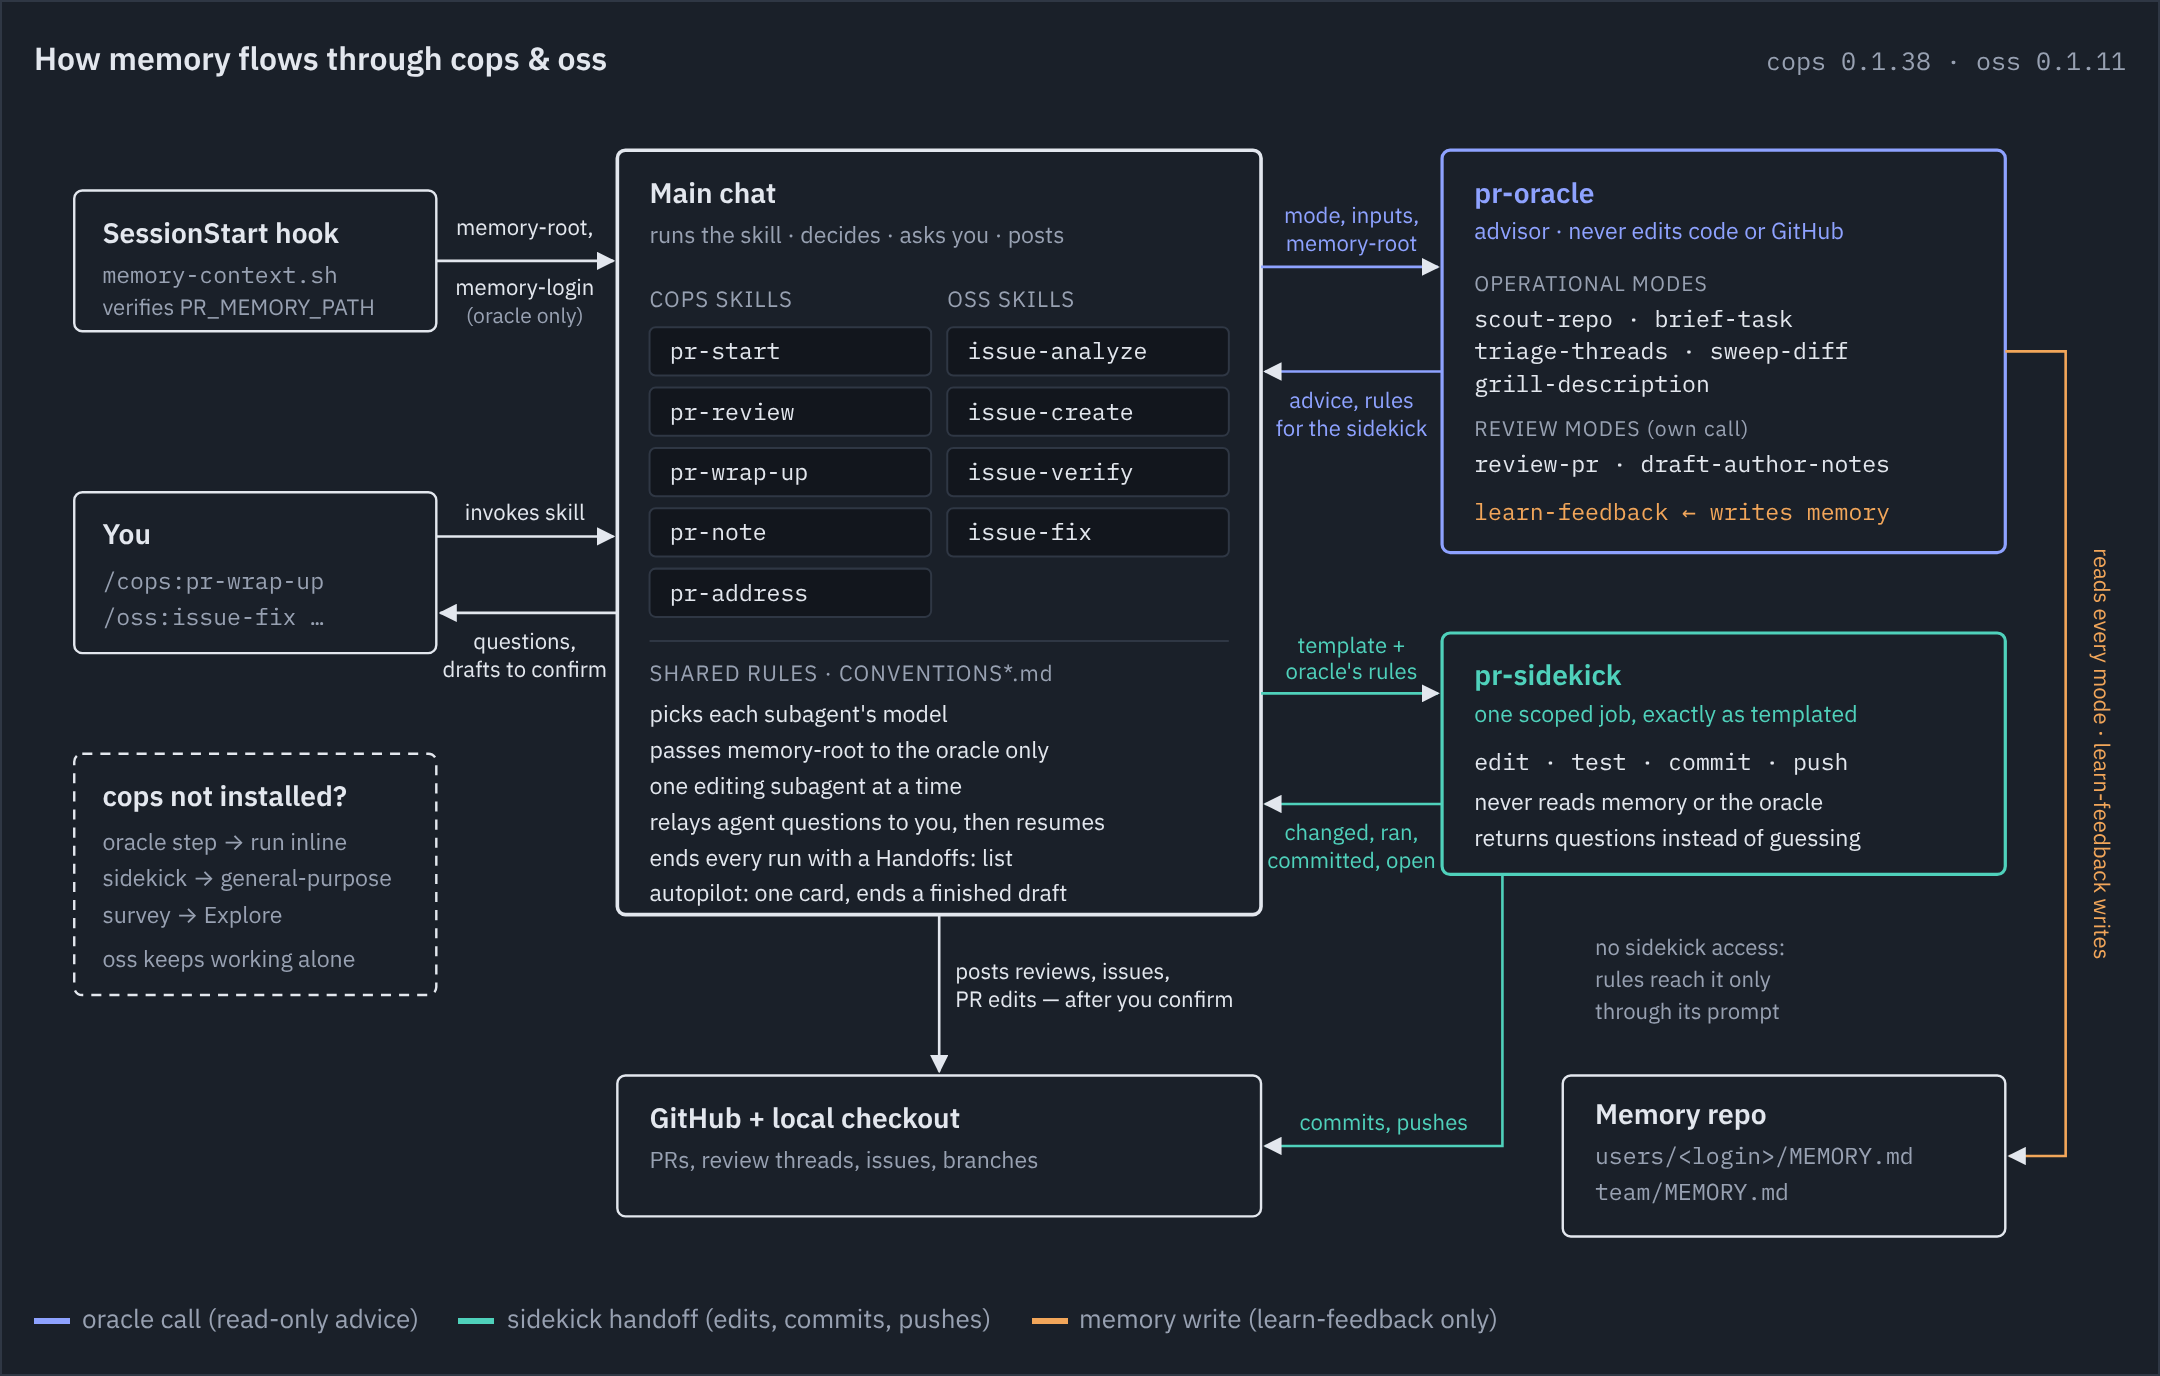
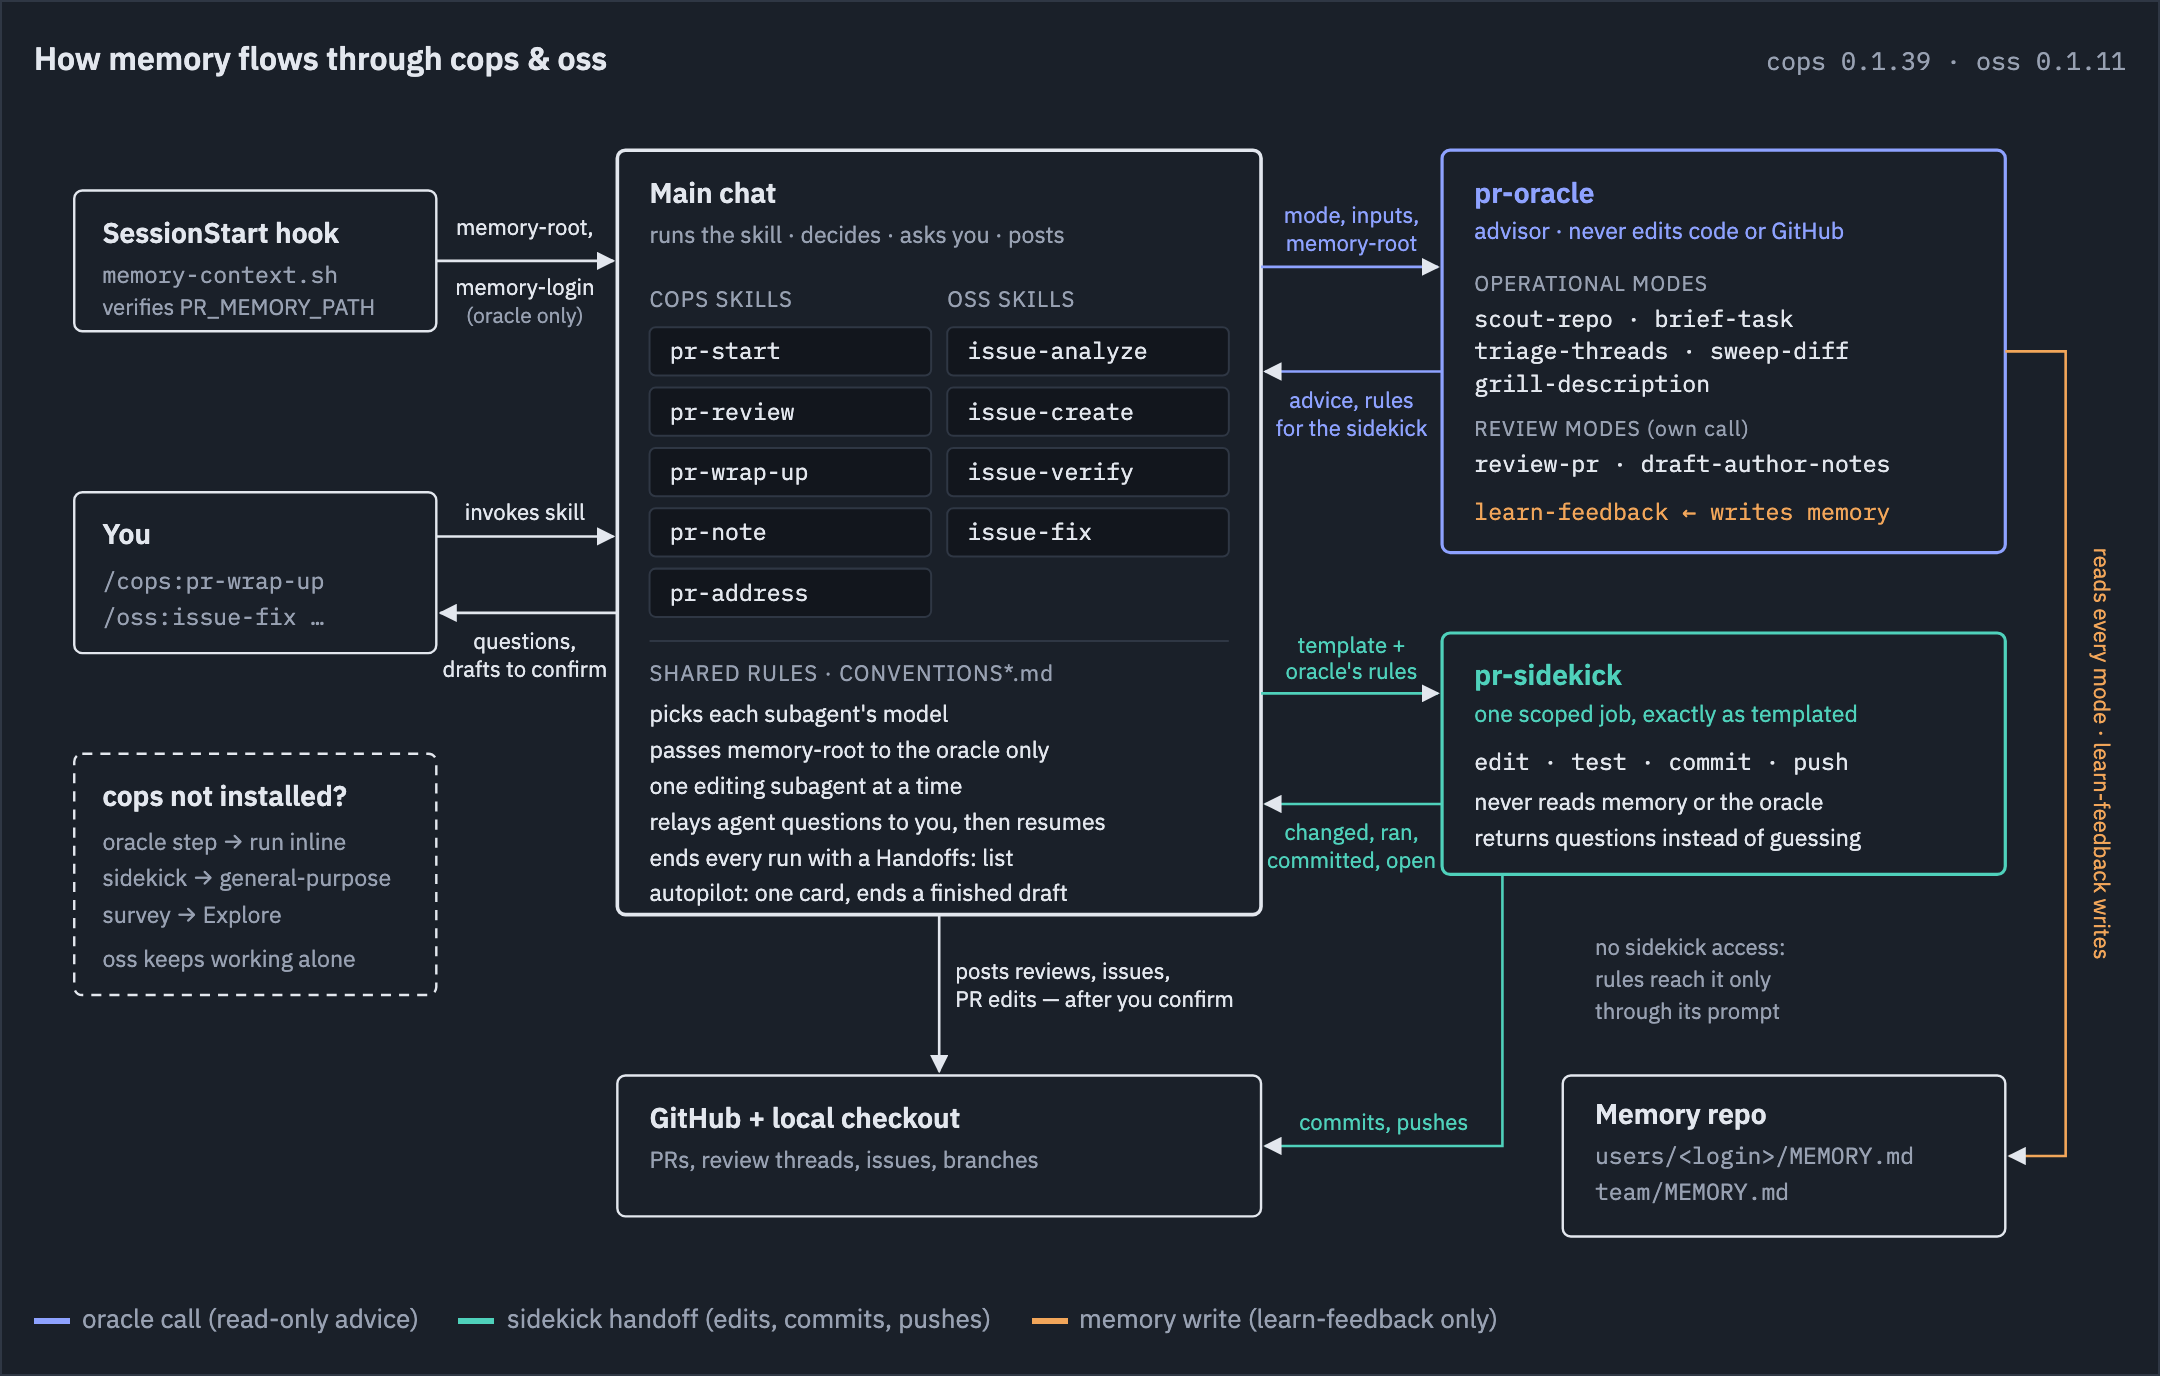
[cops] feat: let review-pr name the rule behind each comment privately (#121) (#124)
* [cops] feat: let review-pr name the rule behind each comment privately

review-pr comments carry a private `rule:` field that is never posted, so the rule usage stats count which remembered rules drive review comments.

Skill: cops:pr-start
Approved-by: eddeee888

* [cops] fix: ignore rule lines inside a comment body when counting review-pr rules

Skill: cops:pr-address
Approved-by: eddeee888

* [cops] fix: ask review-pr for a single-quoted rule value

Skill: cops:pr-address
Approved-by: eddeee888

* [cops] chore: bump cops to 0.1.39

---------

diff --git a/cops/hooks/cops.tsx b/cops/hooks/cops.tsx
@@ -10,7 +10,7 @@ import { checkLoaded, checkTool, EXPECTED_HANDOFFS, tickedBy } from './orchestra
 import { describeActivity, describeAgent, describeCall, describeNext, describeOutcome, describeSkill, groupActivity, isSameSkill, snippet, SPINNER_MS, summarize, THREADS_QUERY, toThreads } from './pr-panel.ts'
 import type { ThreadsResponse } from './pr-panel.ts'
 import { findRule } from './rule-band.ts'
-import { countUses, describeRules, describeUse, hashRule, matchEntries, parseEntries, parseFlagged, parseReply, toRuleUsage } from './rule-usage.ts'
+import { countUses, describeRules, describeUse, hashRule, matchEntries, parseEntries, parseFlagged, parseReply, parseReviewRules, toRuleUsage } from './rule-usage.ts'
 import { countLines, describeCapacityWarning, describeMemory } from './status-line.ts'
 import { addUsage, describeUsage, keyCall, toUsage } from './usage-stats.ts'
 
@@ -31,7 +31,7 @@ const INBOX_LIMIT = 50
 // The `$.store` key of the `kind: text` lines dropped from the inbox, kept so they aren't collected again.
 const DROPPED = 'dropped'
 const DROPPED_LIMIT = 200
-// The `$.store` key of how often each remembered rule matched a brief-task or sweep-diff reply, kept across sessions.
+// The `$.store` key of how often each remembered rule matched a brief-task, sweep-diff or review-pr reply, kept across sessions.
 const RULE_USAGE = 'ruleUsage'
 // The `$.store` key of what finished cops agent calls cost per mode or job, kept across sessions.
 const USAGE = 'usage'
@@ -581,17 +581,18 @@ export const register: Register = (on, options) => {
       if (agent === 'cops:pr-oracle' && call.modes?.includes('learn-feedback')) {
         void refreshStatus($, memory).catch(error => reportFailure($, { step: 'status', what: 'refresh the status line', error }))
       }
-      // Counts the remembered rules a plain brief-task or a sweep-diff reply cites, while memory is on.
+      // Counts the remembered rules a plain brief-task, a sweep-diff or a review-pr reply cites, while memory is on.
+      // A review-pr reply cites them only in its comments' private `rule:` fields.
       // A `for: pr-sidekick` brief lists every rule that could apply, so it doesn't show which rules fire.
       try {
         const isSidekickBrief = /^for:\s*pr-sidekick\b/mi.test(e.prompt)
-        if (agent === 'cops:pr-oracle' && call.modes?.some(one => one === 'sweep-diff' || (one === 'brief-task' && !isSidekickBrief))) {
+        if (agent === 'cops:pr-oracle' && call.modes?.some(one => one === 'sweep-diff' || one === 'review-pr' || (one === 'brief-task' && !isSidekickBrief))) {
           const pluginRoot = $.plugin.root
           const context = await runProcess($, ['bash', `${pluginRoot}/hooks/memory-context.sh`, 'claude', memory.path, memory.login])
           if (context?.exitCode === 0 && context.stdout.includes('COPS memory root:')) {
             const { rules } = await readMemory($, { context: context.stdout })
             const entries = rules.map(one => one.rule)
-            const keys = matchEntries({ entries, cited: parseReply({ text: ran.text ?? '' }) }).map(rule => hashRule({ text: rule }))
+            const keys = matchEntries({ entries, cited: call.modes?.includes('review-pr') ? parseReviewRules({ text: ran.text ?? '' }) : parseReply({ text: ran.text ?? '' }) }).map(rule => hashRule({ text: rule }))
             // Only a sweep-diff reply's `— rule:` lines flag a rule; a brief-task citation just counts.
             const flaggedKeys = call.modes?.includes('sweep-diff') ? matchEntries({ entries, cited: parseFlagged({ text: ran.text ?? '' }) }).map(rule => hashRule({ text: rule })) : []
             if (keys.length > 0) {

diff --git a/cops/hooks/rule-usage.test.ts b/cops/hooks/rule-usage.test.ts
@@ -3,7 +3,7 @@ import type { Engine } from 'claude-code/testing'
 import type { On, ProcessRunResult } from 'claude-code'
 import type { RuleUsage } from '../types'
 import { MEMORY_LIMIT } from './status-line.ts'
-import { countUses, describeRules, describeUse, hashRule, matchEntries, normalize, parseEntries, parseFlagged, parseReply, toRuleUsage } from './rule-usage.ts'
+import { countUses, describeRules, describeUse, hashRule, matchEntries, normalize, parseEntries, parseFlagged, parseReply, parseReviewRules, toRuleUsage } from './rule-usage.ts'
 
 const DAY = 86_400_000
 const NOW = 100 * DAY
@@ -152,6 +152,20 @@ describe('rule usage counting', () => {
     expect(used({ stored, rule: 'Prefer early returns' })).toEqual({ count: 2, flagged: 1, firstSeen: DAY, lastSeen: NOW, recent: [DAY, NOW] })
     expect(used({ stored, rule: 'Keep tests beside the code' })?.count).toBe(1)
     expect(Object.keys(toRuleUsage({ stored: stored.ruleUsage }))).toHaveLength(2)
+  })
+
+  test('a review-pr comment\'s private rule counts as cited, not flagged', MEMORY, async ($, on) => {
+    const stored: Record<string, unknown> = {}
+    world({ on, stored, replies: { 'mode: review-pr': 'comments:\n  - path: a.ts\n    rule: [U-014] prefer early returns (stated by user)\n    body: |-\n      **Issue:** nested ifs' } })
+    await oracle({ $, mode: 'review-pr' })
+    expect(used({ stored, rule: 'Prefer early returns' })).toEqual({ count: 1, firstSeen: NOW, lastSeen: NOW, recent: [NOW] })
+  })
+
+  test('a review-pr comment with rule null counts nothing', MEMORY, async ($, on) => {
+    const stored: Record<string, unknown> = {}
+    world({ on, stored, replies: { 'mode: review-pr': 'comments:\n  - path: a.ts\n    rule: null\n    body: |-\n      **Issue:** prefer early returns' } })
+    await oracle({ $, mode: 'review-pr' })
+    expect(stored.ruleUsage).toBeUndefined()
   })
 
   test('counts nothing for unmatched text, no relevant memory, clean, or other modes', MEMORY, async ($, on) => {
@@ -348,6 +362,14 @@ describe('usage', () => {
 
   test('parses only the sweep-diff rule lines as flagged', () => {
     expect(parseFlagged({ text: '- a.ts:3  nested ifs  — rule: [U-014] prefer early returns (stated by user)\n- ask before pushing  (seen 2x)\nclean' })).toEqual(['[U-014] prefer early returns'])
+  })
+
+  test('parses a review-pr reply\'s rule fields, skipping null and empty', () => {
+    expect(parseReviewRules({ text: '  - path: a.ts\n    rule: [U-014] prefer early returns (stated by user)\n    rule: null\n    rule:\n    rule: "use pnpm"\n- a bullet' })).toEqual(['[U-014] prefer early returns', 'use pnpm'])
+  })
+
+  test('ignores rule lines inside a comment body block', () => {
+    expect(parseReviewRules({ text: '  - path: a.yml\n    rule: null\n    body: |-\n      **Suggestion:** x\n      ```suggestion\n      rule: no\n      ```' })).toEqual([])
   })
 
   test('drops stored values that are not usage', () => {

diff --git a/cops/hooks/rule-usage.ts b/cops/hooks/rule-usage.ts
@@ -1,7 +1,7 @@
 import type { RuleUsage } from '../types'
 import { MEMORY_LIMIT } from './status-line.ts'
 
-// How often each remembered rule fires in pr-oracle's brief-task and sweep-diff replies, and which have gone stale.
+// How often each remembered rule fires in pr-oracle's brief-task, sweep-diff and review-pr replies, and which have gone stale.
 
 const DAY_MS = 86_400_000
 // A rule last seen this long ago, or never, is stale.
@@ -108,6 +108,17 @@ export const parseFlagged = ({ text }: { text: string }): string[] =>
     const rule = /^\s*- .*?\s—\s*rule:\s*(.+)$/.exec(line)?.[1]
     const stripped = rule ? stripEvidence({ text: rule }) : ''
     return stripped ? [stripped] : []
+  })
+
+// The rules a review-pr reply names in its comments' private `rule:` fields, without their evidence:
+//   '    rule: [U-014] prefer early returns (stated by user)'   → ['[U-014] prefer early returns']
+//   '  - rule: "prefer early returns"'                          → ['prefer early returns']
+//   '    rule: null', '    rule:', 'no comments'                → []
+export const parseReviewRules = ({ text }: { text: string }): string[] =>
+  text.split('\n').flatMap(line => {
+    const value = /^(?: {4}|  - )rule:\s*(.*)$/.exec(line)?.[1] ?? ''
+    const rule = stripEvidence({ text: value.trim().replace(/^(["'])(.*)\1$/, '$2') })
+    return rule && rule !== 'null' ? [rule] : []
   })
 
 // The entries a reply's rules match, each once: the same ID, or text equal once normalized, or one a prefix of the other:

diff --git a/docs/memory-flow.html b/docs/memory-flow.html
@@ -41,7 +41,7 @@ svg .w { color: var(--write); } svg .w text { fill: var(--write); }
 <figure>
   <header>
     <strong>How memory flows through cops &amp; oss</strong>
-    <span id="versions">cops 0.1.38 · oss 0.1.11</span>
+    <span id="versions">cops 0.1.39 · oss 0.1.11</span>
   </header>
   <svg viewBox="0 0 1040 580" role="img" aria-label="The main chat runs a cops or oss skill. It calls pr-oracle for read-only advice and pr-sidekick for edit, test, commit and push loops. A SessionStart hook injects the memory root. Only the oracle receives the memory root and reads the memory repo, and only its learn-feedback mode writes it. The sidekick gets remembered rules through its prompt.">
     <defs>

diff --git a/cops/README.md b/cops/README.md
@@ -114,7 +114,7 @@ In Claude Code, a pane with a Threads section (its `Next:` line sits right under
     - Sidekick: how many rules its `Rules that apply:` line carried and how many deviations it reported (`6 rules · 1 deviation`), and a red warning if its prompt carried `memory-root`, which it must never get;
     - for both: the outcome (`CHECKPOINT_FOUND <sha>`, `CHECKPOINT_NOT_FOUND`, `pushed <sha>`, `committed <sha>`, a findings count, or the first line), the time taken, and the tokens used. Each row starts with its status: a spinner while the call runs, `✓` when it's done, `✗` when it failed. Calls run in the foreground unless you ask for background; a background call shows as running in the background, then flips to `✓` (or `✗` if stopped) with its run time and outcome when the agent ends, but never shows tokens.
 - **Inbox:** while memory is on, the `memory-candidate:`, `promote:`, `conflict:` and `open:` lines cops agents return, each once, with the repository and PR they came from (e.g. `· ai-skills#59`). `open:` lines stay for the session; the rest are kept across sessions. **Park as candidate** (a `triage-threads` candidate) or **Remember** (a `grill-description` one) puts the matching request in the prompt box and clears the line; **Drop** clears it, and the same line isn't collected again, even in later sessions. It never writes memory.
-- **Rules:** while memory is on, an **HQ | Rules | Stats** tab row tops the pane. Rules lists remembered rules a `brief-task` or `sweep-diff` reply hasn't cited in 30 days (or ever), each with a **Prune** button that puts a `learn-feedback` prune request in the prompt box, and rules cited 5+ times in 30 days as CLAUDE.md candidates, with counts and when each was last seen, e.g. `seen 5× · flagged 3× · last seen 2d ago`, where `flagged` counts only the `sweep-diff` replies that flagged the rule and shows once it is above 0; the counts are kept across sessions. It never writes memory.
+- **Rules:** while memory is on, an **HQ | Rules | Stats** tab row tops the pane. Rules lists remembered rules a `brief-task`, `sweep-diff` or `review-pr` reply hasn't cited in 30 days (or ever), each with a **Prune** button that puts a `learn-feedback` prune request in the prompt box, and rules cited 5+ times in 30 days as CLAUDE.md candidates, with counts and when each was last seen, e.g. `seen 5× · flagged 3× · last seen 2d ago`, where `flagged` counts only the `sweep-diff` replies that flagged the rule and shows once it is above 0; the counts are kept across sessions. It never writes memory.
 - **Stats:** the third tab. It starts with a `COPS <version>` line (e.g. `COPS 0.1.14`), read from the plugin's manifest and left out if the manifest can't be read. Its **Usage** section shows, for each pr-oracle mode set (`scout-repo + brief-task`) and pr-sidekick job (`fix loop`), how many calls finished, the average time and tokens per call, and the model(s) they ran on, most tokens first; the totals are kept across sessions, with a **since** date. **Reset** clears them at once, without a confirm step. Only calls that finish with a token count are counted; failed, background and otherwise unfinished calls aren't. It never writes memory.
 
 The threads refresh at session start, after Bash commands that switch, commit, push, or pull branches or run `gh pr`, and every two minutes. No model is called; the grouping comes from who commented last.

diff --git a/cops/skills/pr-review/post-review.md b/cops/skills/pr-review/post-review.md
@@ -1,14 +1,14 @@
 # Shared review posting mechanics
 
-`pr-review` and `pr-note` read this only after the user confirms the draft. The caller supplies signed bodies and event (`COMMENT` by default).
+`pr-review`/`pr-note` read this only after the user confirms the draft. The caller supplies signed bodies and event (`COMMENT` by default).
 
 Immediately before writing, re-read full `headRefOid` (`gh api repos/<owner>/<repo>/pulls/<number> --jq .head.sha`; MCP `pull_request_read` `get`). Saved-head mismatch → stop, post nothing, offer a fresh review.
 
-Post accepted comments in one review anchored to the saved `headRefOid`.
+Post accepted comments (only `path`, `line`, `start_line`, signed body; never `rule`) in one review at the saved `headRefOid`.
 
 ## `gh` route
 
-Pick the absolute scratch dir `d` first (the session's, else `mktemp -d`; never under `.git`), then write the payload there (`CONVENTIONS-github.md` → "Passing drafted text to `gh`"):
+Pick absolute scratch dir `d` first (the session's, else `mktemp -d`; never under `.git`); write the payload there (`CONVENTIONS-github.md` → "Passing drafted text to `gh`"):
 
 ```bash
 d=<that absolute path>
@@ -18,7 +18,7 @@ gh api repos/<owner>/<repo>/pulls/<number>/reviews --input "$d/pr-review.json"
 rm "$d/pr-review.json"
 ```
 
-For `pr-note`, use `pr-note.json` throughout. Keep an empty body empty.
+For `pr-note`, use `pr-note.json` throughout. Keep empty bodies empty.
 
 ## MCP route
 

diff --git a/cops/references/pr-oracle/modes/review-pr.md b/cops/references/pr-oracle/modes/review-pr.md
@@ -11,7 +11,7 @@ Each body starts with exactly one bold label:
 - `**Issue:**` names a concrete failing input/case. Critical behavior is always an issue and suggests a `// FIXME`; without a failing case, use a question.
 - `**Test:**` names the missing case for changed behavior, a fix, or a new branch; never merely asks for tests.
 
-One point: 1–2 sentences. Multiple: answer, then one bullet per point/source. Remove restatements, hedges, and closings. Sources are openable links: code uses saved-SHA GitHub permalinks with repo/path/line text; others use URLs. Allow PR-repo/public sources; omit private/sign-in sources and note this in `unverified`. Never mention memory or rule IDs, or add signatures.
+One point: 1–2 sentences. Multiple: answer, then one bullet per point/source. Remove restatements, hedges, and closings. Sources are openable links: code uses saved-SHA GitHub permalinks with repo/path/line text; others use URLs. Allow PR-repo/public sources; omit private/sign-in sources and note this in `unverified`. Never mention memory or rule IDs in `body`, or add signatures. `rule` is private to the caller's stats and never posted.
 
 Return only:
 
@@ -33,6 +33,7 @@ comments:
     line: <new-side integer>
     start_line: <new-side integer or null>
     kind: <Question|Suggestion|Issue|Test>
+    rule: <'[id] rule text behind this comment' (single-quoted), or null>
     body: |-
       **<kind>:** ...
 dropped: <integer>
